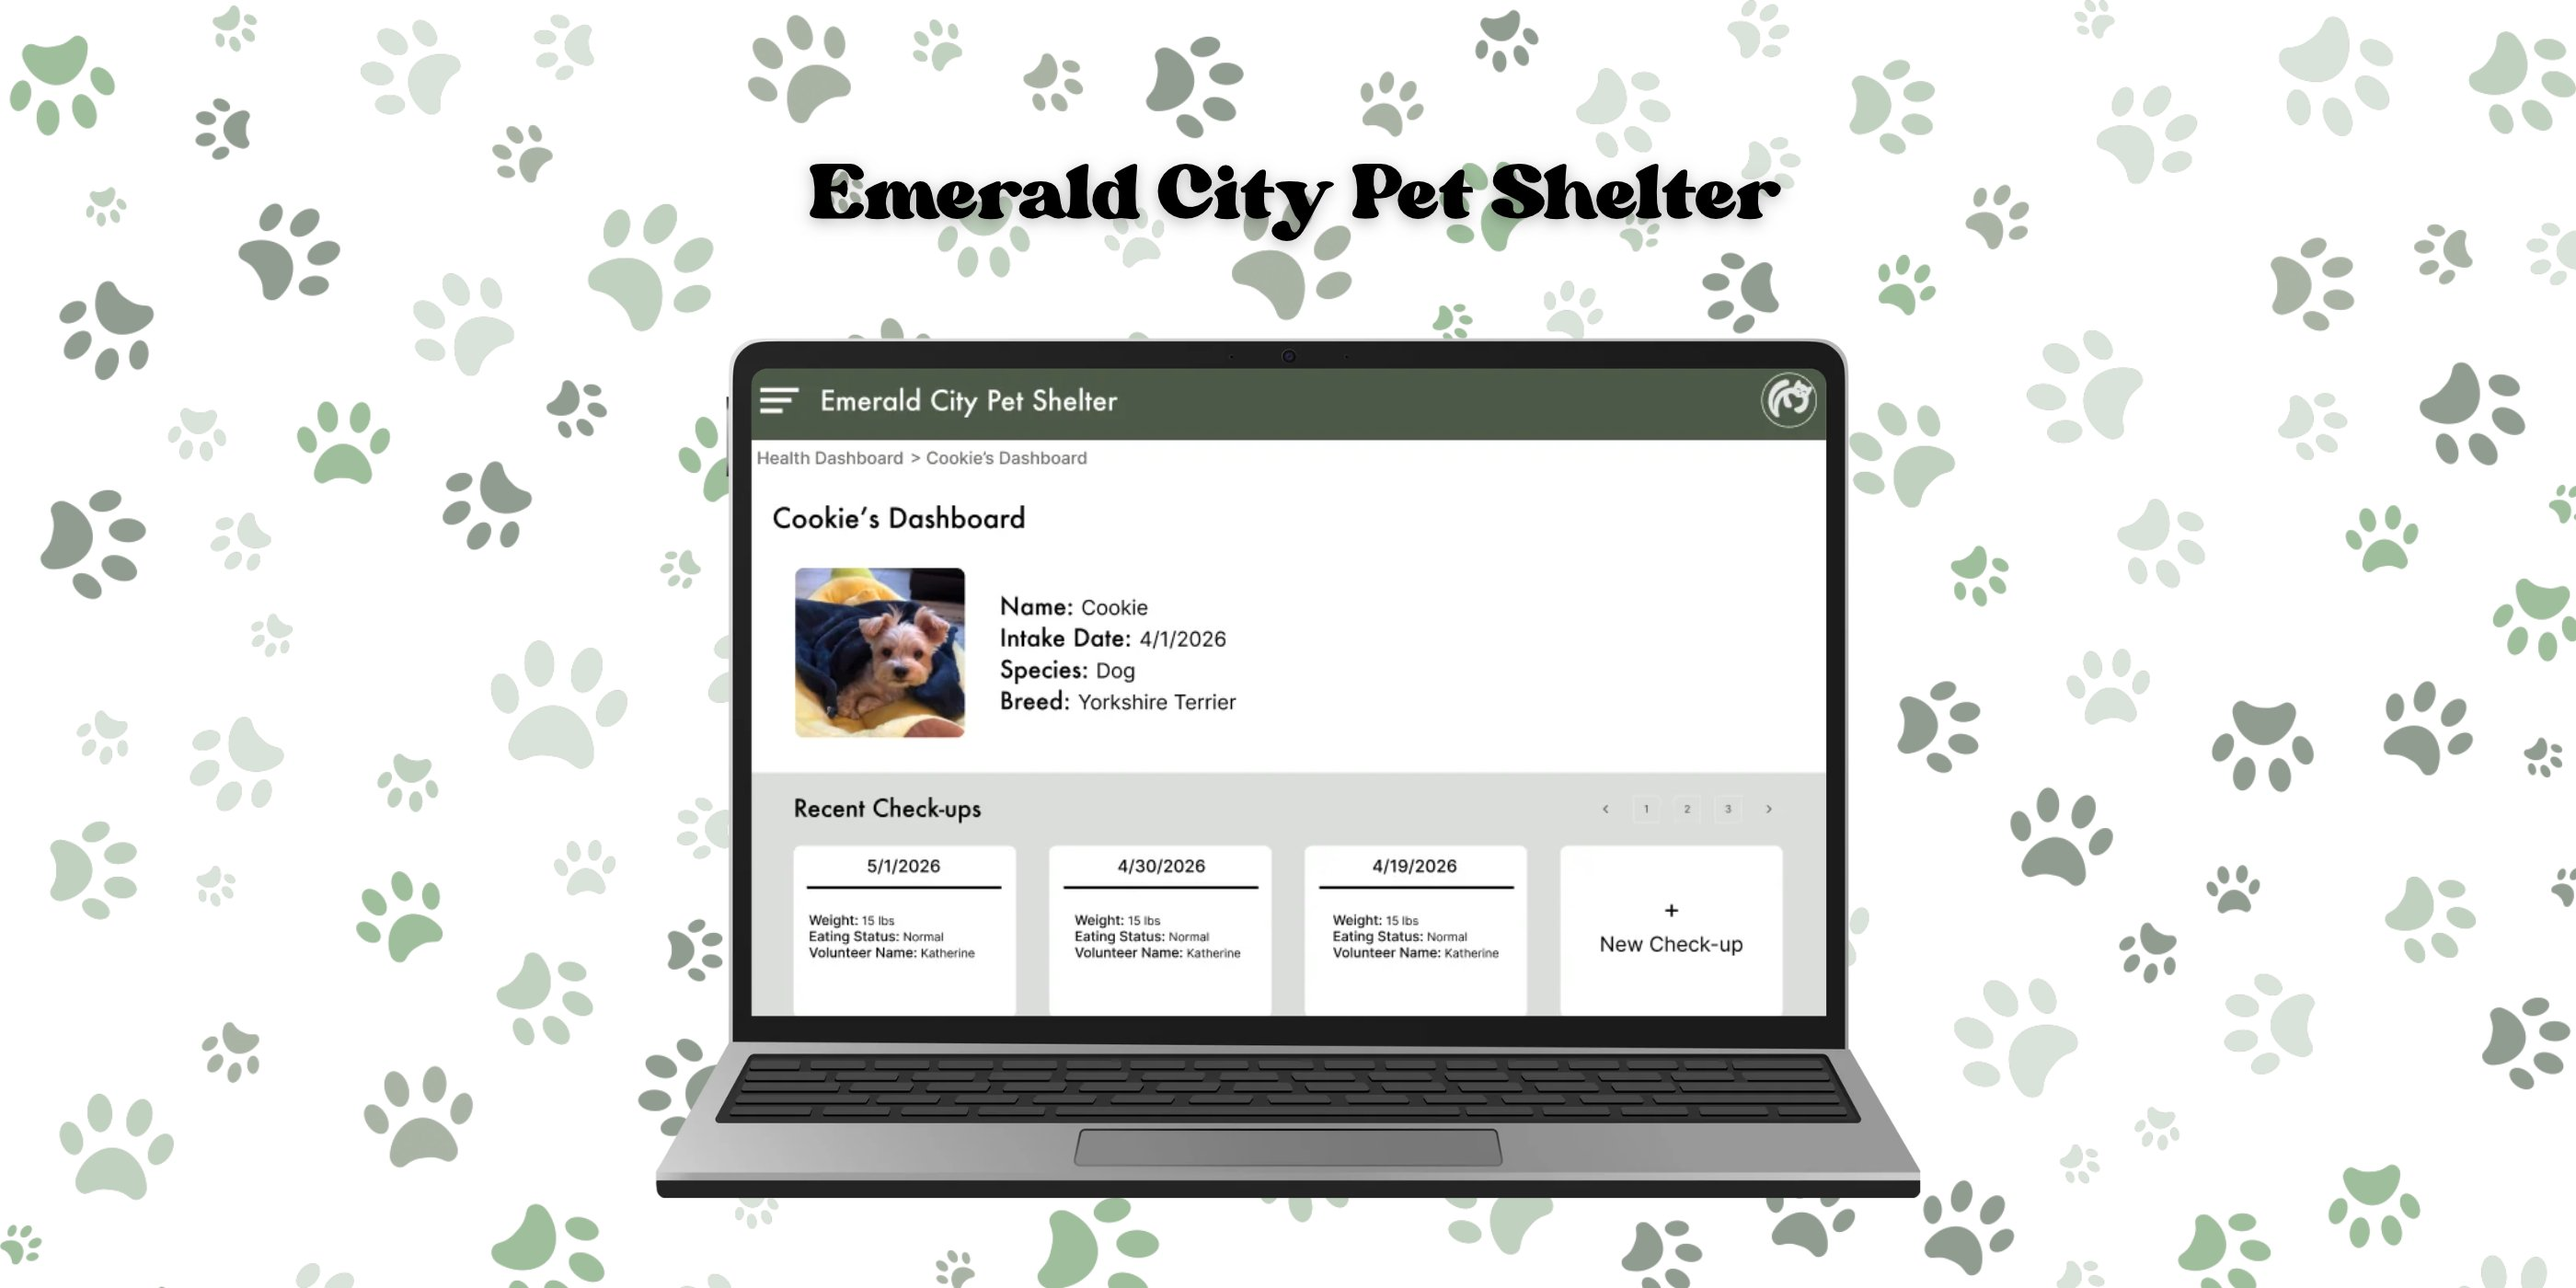
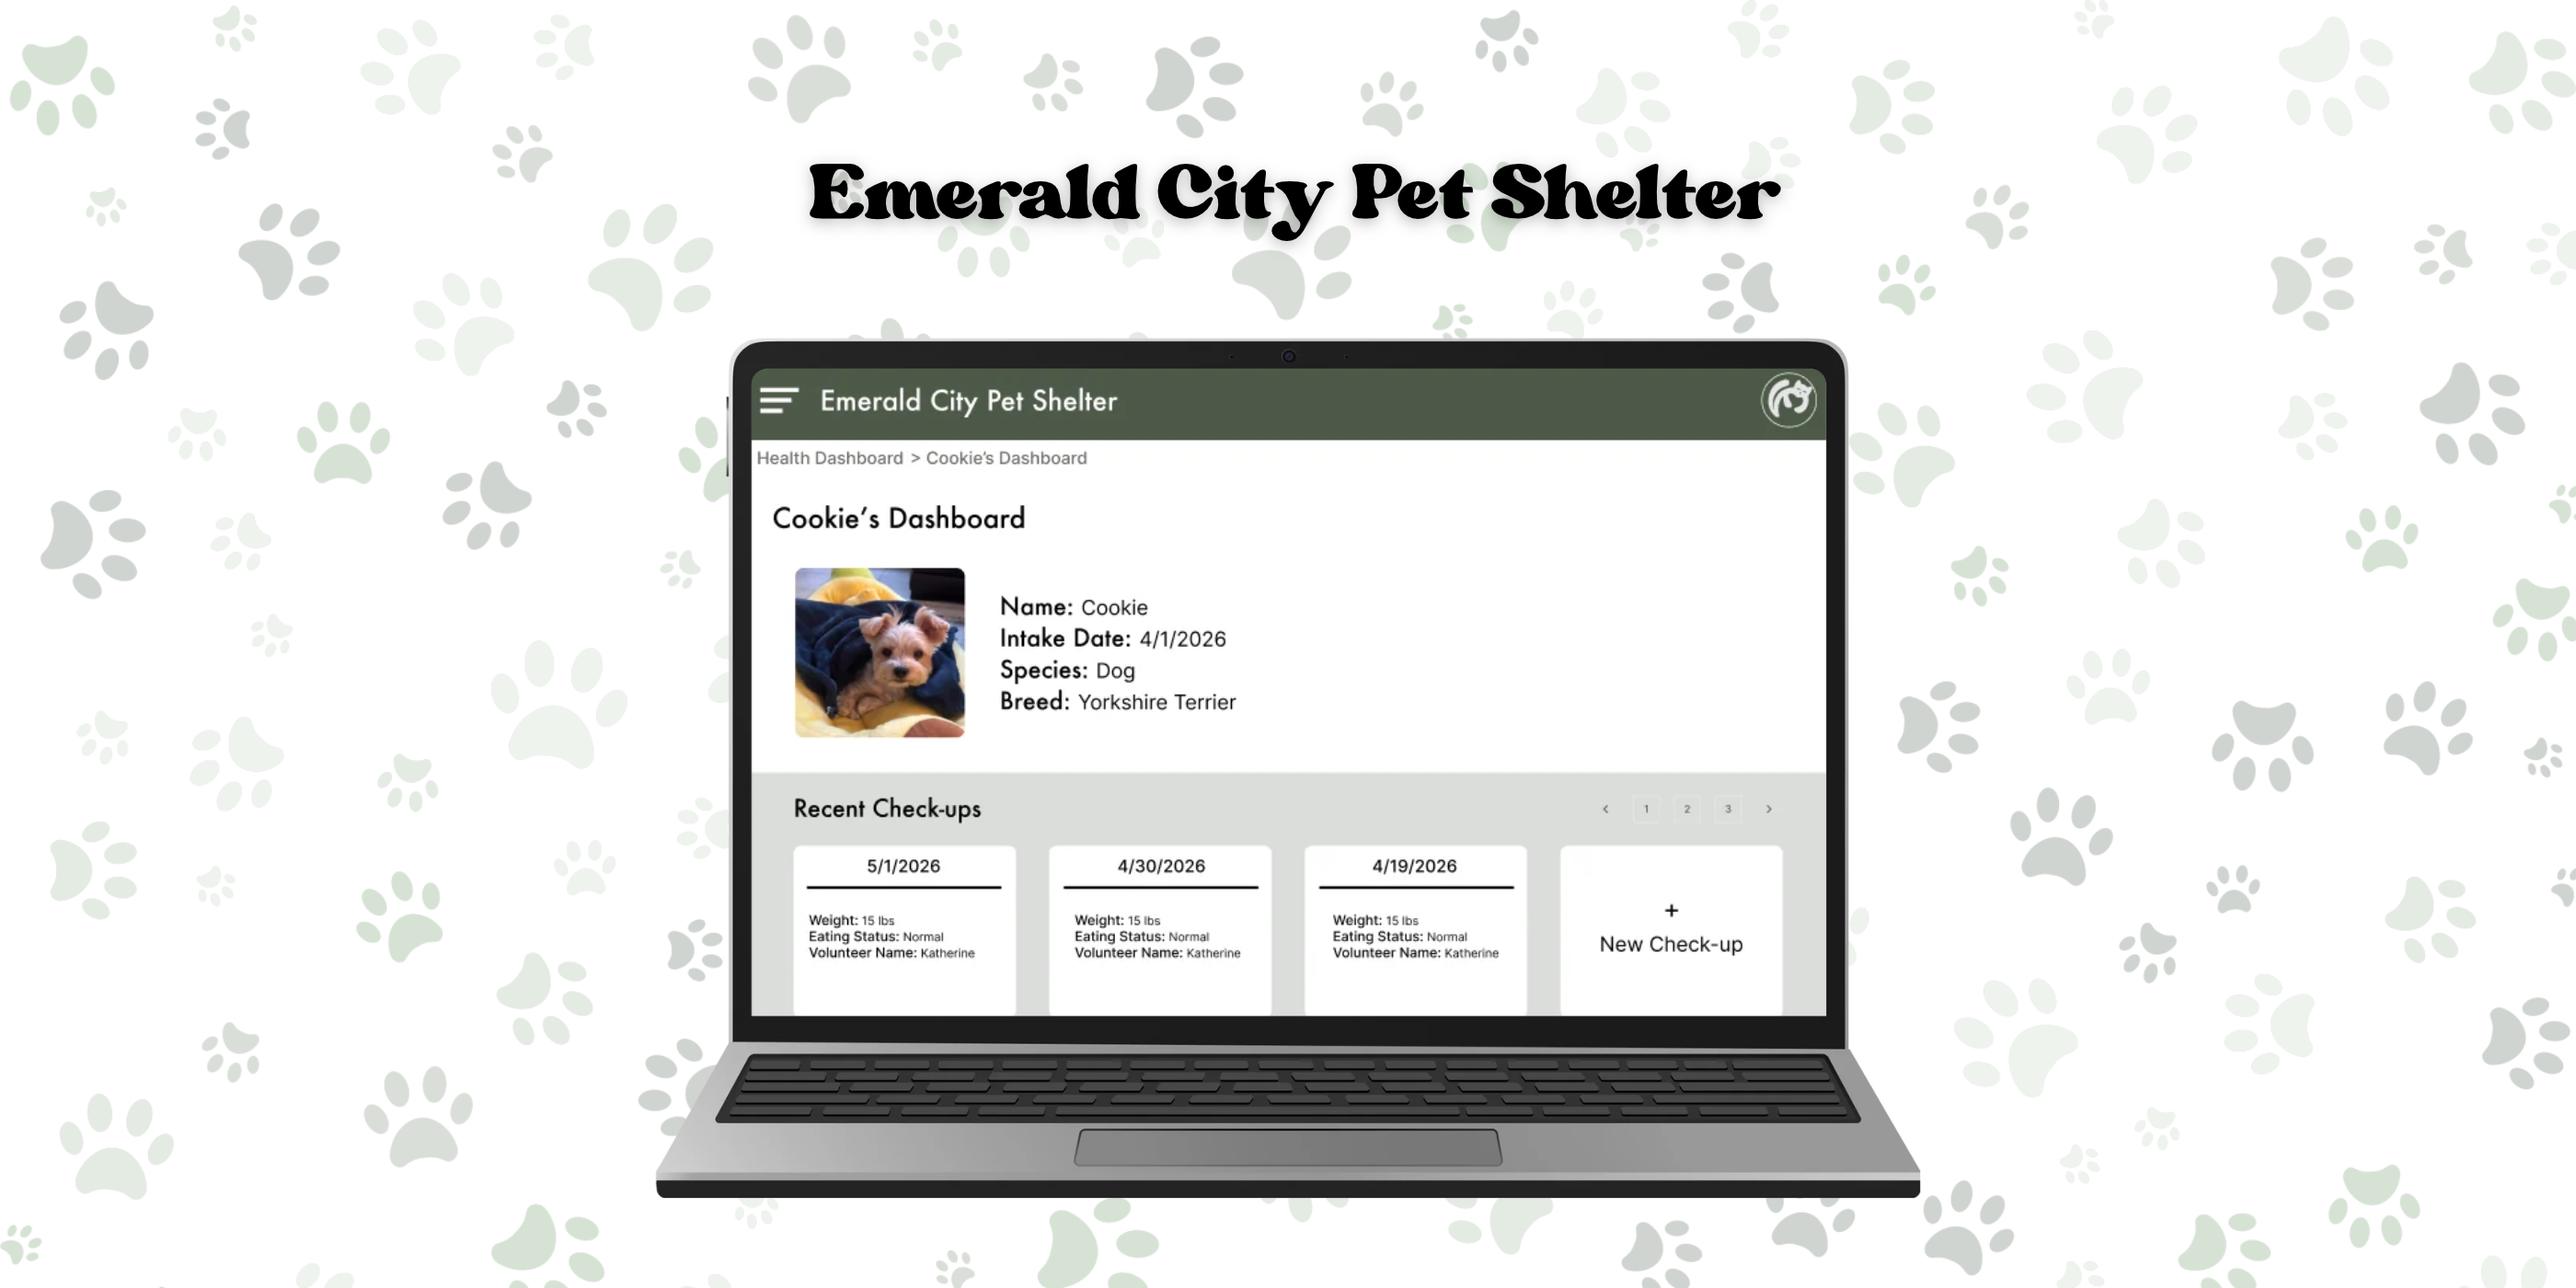
changing placements of projects

diff --git a/projects.html b/projects.html
@@ -78,28 +78,9 @@
       </div>
     </a>
 
-    <a href="groove-scout.html" class="project fade-in">
-      <div class="proj-top">
-        <div class="proj-num">03</div>
-        <div>
-          <div class="proj-org">Oasis</div>
-          <h3 class="project-title">Groove<br>Scout</h3>
-          <div class="project-tags">
-            <span class="tag">React</span><span class="tag">Node.js</span><span class="tag">Frontend</span>
-          </div>
-          <span class="project-status complete">Complete</span>
-          <div><span class="proj-cta">View Case Study →</span></div>
-        </div>
-        <div>
-          <p class="project-desc">A unified vinyl record search platform aggregating listings from multiple marketplaces — so collectors and casual listeners can instantly discover availability, condition, and lowest price.</p>
-          <p class="proj-role">Role: <strong>Project Series Member</strong></p>
-        </div>
-      </div>
-    </a>
-
     <a href="emerald-city-pet-shelter.html" class="project fade-in">
       <div class="proj-top">
-        <div class="proj-num">04</div>
+        <div class="proj-num">03</div>
         <div>
           <div class="proj-org">Personal</div>
           <h3 class="project-title">Emerald City<br>Pet Shelter</h3>
@@ -112,6 +93,25 @@
         <div>
           <p class="project-desc">A desktop animal health dashboard for shelter volunteers to log daily observations, medical appointments, vaccinations, and behavioral notes — replacing paper forms for 30+ volunteers.</p>
           <p class="proj-role">Role: <strong>Software Designer</strong></p>
+        </div>
+      </div>
+    </a>
+
+    <a href="groove-scout.html" class="project fade-in">
+      <div class="proj-top">
+        <div class="proj-num">04</div>
+        <div>
+          <div class="proj-org">Oasis</div>
+          <h3 class="project-title">Groove<br>Scout</h3>
+          <div class="project-tags">
+            <span class="tag">React</span><span class="tag">Node.js</span><span class="tag">Frontend</span>
+          </div>
+          <span class="project-status complete">Complete</span>
+          <div><span class="proj-cta">View Case Study →</span></div>
+        </div>
+        <div>
+          <p class="project-desc">A unified vinyl record search platform aggregating listings from multiple marketplaces — so collectors and casual listeners can instantly discover availability, condition, and lowest price.</p>
+          <p class="proj-role">Role: <strong>Project Series Member</strong></p>
         </div>
       </div>
     </a>

diff --git a/index.html b/index.html
@@ -94,18 +94,18 @@
         <div class="work-card-meta"><span>02</span><span>Superpower Mentors</span></div>
       </a>
 
-      <a href="groove-scout.html" class="work-card fade-in">
-        <div class="work-card-img">
-          <img src="groove-scout-hero.jpg" alt="Groove Scout brand banner — the title and tagline Discover your next vinyl, framed by two grey vinyl records on a pale mint background"/>
-        </div>
-        <div class="work-card-meta"><span>03</span><span>Groove Scout</span></div>
-      </a>
-
       <a href="emerald-city-pet-shelter.html" class="work-card fade-in">
         <div class="work-card-img">
           <img src="shelter-hero.jpg" alt="Emerald City Pet Shelter brand banner — Cookie's Dashboard shown on a laptop over a green paw-print pattern"/>
         </div>
-        <div class="work-card-meta"><span>04</span><span>Emerald City Pet Shelter</span></div>
+        <div class="work-card-meta"><span>03</span><span>Emerald City Pet Shelter</span></div>
+      </a>
+
+      <a href="groove-scout.html" class="work-card fade-in">
+        <div class="work-card-img">
+          <img src="groove-scout-hero.jpg" alt="Groove Scout brand banner — the title and tagline Discover your next vinyl, framed by two grey vinyl records on a pale mint background"/>
+        </div>
+        <div class="work-card-meta"><span>04</span><span>Groove Scout</span></div>
       </a>
 
     </div>

diff --git a/emerald-city-pet-shelter.html b/emerald-city-pet-shelter.html
@@ -29,7 +29,7 @@
 
 <section class="page-header fade-in">
   <div class="wrap">
-    <div class="page-eyebrow">Case Study — 04 / Personal</div>
+    <div class="page-eyebrow">Case Study — 03 / Personal</div>
     <h1 class="page-title">
       <span class="light">Emerald City</span>
       PET SHELTER
@@ -42,7 +42,7 @@
 
     <div class="project fade-in" style="cursor:default">
       <div class="proj-top">
-        <div class="proj-num">04</div>
+        <div class="proj-num">03</div>
         <div>
           <div class="proj-org">Personal</div>
           <h3 class="project-title">Emerald City<br>Pet Shelter</h3>

diff --git a/groove-scout.html b/groove-scout.html
@@ -29,7 +29,7 @@
 
 <section class="page-header fade-in">
   <div class="wrap">
-    <div class="page-eyebrow">Case Study — 03 / Oasis</div>
+    <div class="page-eyebrow">Case Study — 04 / Oasis</div>
     <h1 class="page-title">
       <span class="light">Groove</span>
       SCOUT
@@ -42,7 +42,7 @@
 
     <div class="project fade-in" style="cursor:default">
       <div class="proj-top">
-        <div class="proj-num">03</div>
+        <div class="proj-num">04</div>
         <div>
           <div class="proj-org">Oasis</div>
           <h3 class="project-title">Groove<br>Scout</h3>

diff --git a/superpower-mentors.html b/superpower-mentors.html
@@ -291,9 +291,9 @@
 
 <section class="cs-next">
   <div class="cs-wrap fade-in">
-    <a href="groove-scout.html">
+    <a href="emerald-city-pet-shelter.html">
       <span class="cs-next-label">Next Project — 03</span>
-      <span class="cs-next-title">Groove Scout</span>
+      <span class="cs-next-title">Emerald City Pet Shelter</span>
       <span class="cs-next-label">View Project →</span>
     </a>
   </div>
